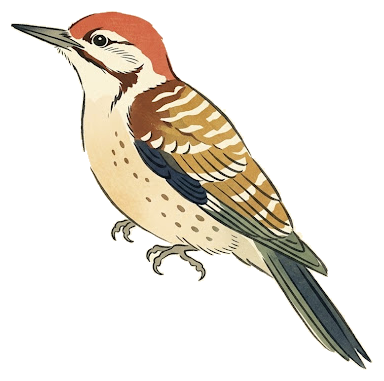
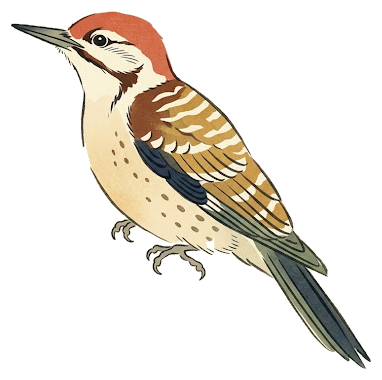
atlas: keep pale plumage that meets the ground with no ink line
The cream-ground cutout floods in from the edges, so a pale throat with
no outline gets eaten (the perched Ladder-backed Woodpecker lost its
chest). chroma_cut now also cuts at 0.7x its tolerance; if that keeps
more than 10% more bird, the first cut leaked and the tighter one is
used. On the six real renders only the woodpecker switches (+25%; the
rest gain under 5%). A synthetic test covers it.

The prompt also told the model eye, beak and feet were the only places
for dark line, which discouraged exactly that outline. It now asks for
one continuous outline round the whole bird, pale areas included.

diff --git a/avian/scripts/generate_one.py b/avian/scripts/generate_one.py
@@ -52,33 +52,11 @@ def write_state(**kw) -> None:
         pass
 
 
-def chroma_cut(src: Path, dst: Path, tol: float | None = None) -> None:
-    """Instant cutout for a cream-ground render: everything reachable from
-    the border through near-paper pixels is background; everything else is
-    bird. Enclosed pale patches (a white belly) are unreachable, so they
-    stay opaque - the same property the BiRefNet pipeline's fill step has
-    to reconstruct. Edges get a light feather instead of a learned matte.
-
-    The paper tolerance adapts per image: the model renders real grain
-    and a slight vignette, so the ground's distance-from-corner-paper
-    varies render to render (a fixed tolerance either strands ground or
-    eats pale plumage). The border strips are guaranteed paper - their
-    99th percentile, widened, clears grain and vignette while staying
-    far below the inked outline. Pass `tol` to override it for a render
-    whose pale plumage meets the ground with no ink line (it leaks in)."""
-    im = Image.open(src).convert("RGB")
-    arr = np.asarray(im)
-    h, w, _ = arr.shape
-    corners = np.concatenate([arr[:15, :15].reshape(-1, 3), arr[:15, -15:].reshape(-1, 3),
-                              arr[-15:, :15].reshape(-1, 3), arr[-15:, -15:].reshape(-1, 3)])
-    paper = np.median(corners, axis=0)
-    dist = np.sqrt(((arr.astype(np.int32) - paper) ** 2).sum(2))
-    border = np.concatenate([dist[:40, :].ravel(), dist[-40:, :].ravel(),
-                             dist[:, :40].ravel(), dist[:, -40:].ravel()])
-    if tol is None:
-        tol = float(min(40.0, max(15.0, 2.5 * np.percentile(border, 99))))
+def _solid_mask(dist: np.ndarray, tol: float) -> np.ndarray:
+    """Bird pixels for one paper tolerance: everything the border flood
+    cannot reach through near-paper pixels, with grain specks opened away."""
+    h, w = dist.shape
     passable = dist < tol
-
     # Flood the passable region from the border (ImageDraw.floodfill runs
     # at C speed; seeds cover each edge in case a wing splits the margin).
     # The .copy() is load-bearing: floodfill's writes are lost on a
@@ -93,13 +71,48 @@ def chroma_cut(src: Path, dst: Path, tol: float | None = None) -> None:
     if exterior.mean() < 0.5:
         raise RuntimeError(f"cutout flood failed (tol {tol:.0f}, "
                            f"exterior {100 * exterior.mean():.0f}%) - raw kept for the upgrade pass")
-
-    solid = ~exterior
     # Opening (erode then dilate) drops stray grain specks the flood
     # couldn't reach without nibbling the bird.
-    sm = Image.fromarray(solid.astype(np.uint8) * 255)
+    sm = Image.fromarray((~exterior).astype(np.uint8) * 255)
     sm = sm.filter(ImageFilter.MinFilter(3)).filter(ImageFilter.MaxFilter(3))
-    solid = np.asarray(sm) > 127
+    return np.asarray(sm) > 127
+
+
+def chroma_cut(src: Path, dst: Path, tol: float | None = None) -> None:
+    """Instant cutout for a cream-ground render: everything reachable from
+    the border through near-paper pixels is background; everything else is
+    bird. Enclosed pale patches (a white belly) are unreachable, so they
+    stay opaque - the same property the BiRefNet pipeline's fill step has
+    to reconstruct. Edges get a light feather instead of a learned matte.
+
+    The paper tolerance adapts per image: the model renders real grain
+    and a slight vignette, so the ground's distance-from-corner-paper
+    varies render to render (a fixed tolerance either strands ground or
+    eats pale plumage). The border strips are guaranteed paper - their
+    99th percentile, widened, clears grain and vignette while staying
+    far below the inked outline. If that cut leaks into pale plumage, a
+    tighter one is used instead (see below); `tol` forces a value."""
+    im = Image.open(src).convert("RGB")
+    arr = np.asarray(im)
+    h, w, _ = arr.shape
+    corners = np.concatenate([arr[:15, :15].reshape(-1, 3), arr[:15, -15:].reshape(-1, 3),
+                              arr[-15:, :15].reshape(-1, 3), arr[-15:, -15:].reshape(-1, 3)])
+    paper = np.median(corners, axis=0)
+    dist = np.sqrt(((arr.astype(np.int32) - paper) ** 2).sum(2))
+    border = np.concatenate([dist[:40, :].ravel(), dist[-40:, :].ravel(),
+                             dist[:, :40].ravel(), dist[:, -40:].ravel()])
+    if tol is None:
+        auto = float(min(40.0, max(15.0, 2.5 * np.percentile(border, 99))))
+        solid = _solid_mask(dist, auto)
+        # Leak check: where pale plumage meets the ground with no ink line,
+        # the flood runs into the bird. A tighter cut then keeps much more
+        # bird (+25% on a leaky woodpecker; good renders gain under 5%).
+        tight = _solid_mask(dist, max(12.0, 0.7 * auto))
+        if tight.sum() > 1.10 * solid.sum():
+            print(f"[cut] pale edge leaked at tol {auto:.0f}; using {max(12.0, 0.7 * auto):.0f}")
+            solid = tight
+    else:
+        solid = _solid_mask(dist, tol)
     binary = solid.astype(np.uint8) * 255
     # Feather: soften the silhouette edge, keep the interior fully opaque,
     # never bleed outside the silhouette.

diff --git a/tests/test_chroma_cut.py b/tests/test_chroma_cut.py
@@ -1,0 +1,49 @@
+import pathlib
+import sys
+import tempfile
+import unittest
+
+import numpy as np
+from PIL import Image, ImageDraw
+
+ROOT = pathlib.Path(__file__).resolve().parents[1]
+sys.path.insert(0, str(ROOT / "avian" / "scripts"))
+import generate_one  # noqa: E402
+
+PAPER = (249, 238, 208)
+PALE = (247, 229, 192)   # a cream throat, ~19 from the paper (the woodpecker's)
+
+
+def render(outline_gap):
+    """A cream-ground 'bird': an inked oval with a pale patch on its left
+    edge. With outline_gap the patch meets the ground with no ink line."""
+    rng = np.random.default_rng(1)
+    img = Image.new("RGB", (400, 400), PAPER)
+    d = ImageDraw.Draw(img)
+    d.ellipse((100, 100, 300, 300), fill=(120, 80, 50), outline=(20, 20, 20), width=4)
+    d.ellipse((96, 150, 190, 250), fill=PALE)  # pale patch over the left edge
+    if not outline_gap:
+        d.arc((96, 150, 190, 250), 90, 270, fill=(20, 20, 20), width=4)
+    arr = np.asarray(img).astype(np.int16) + rng.integers(-6, 7, (400, 400, 3))  # paper grain
+    return Image.fromarray(np.clip(arr, 0, 255).astype(np.uint8))
+
+
+def bird_area(img):
+    with tempfile.TemporaryDirectory() as tmp:
+        src, dst = pathlib.Path(tmp, "raw.png"), pathlib.Path(tmp, "cut.png")
+        img.save(src)
+        generate_one.chroma_cut(src, dst)
+        return int((np.asarray(Image.open(dst))[:, :, 3] > 127).sum())
+
+
+class ChromaCutTests(unittest.TestCase):
+    def test_pale_patch_without_outline_is_kept(self):
+        """The perched Ladder-backed Woodpecker lost its cream throat and
+        chest: the adaptive tolerance let the flood run straight in."""
+        outlined = bird_area(render(outline_gap=False))
+        open_edge = bird_area(render(outline_gap=True))
+        self.assertGreater(open_edge, 0.95 * outlined)
+
+
+if __name__ == "__main__":
+    unittest.main()

diff --git a/avian/scripts/prompt.template.md b/avian/scripts/prompt.template.md
@@ -20,7 +20,7 @@ Three text placeholders get replaced per request:
 
 Generate a {pose} {com_name} ({sci_name}) in the style of an Edo-period Japanese kachō-e woodblock print, matching the painting technique of IMAGE 3 closely. Look at IMAGE 3: the bird is rendered with VERY FEW MARKS. The body is essentially 2-4 flat color zones with sharp boundaries. There is almost no internal texture on the body - no feather-by-feather rendering, no pen-line stippling, no gradient shading. The bird in IMAGE 3 looks like it was painted with maybe 30 brush strokes total. YOUR output should look the same: a few flat color zones, a few confident outline strokes, an accent stroke or two for major wing or tail markings, and that's it.
 
-Confident sumi-e ink linework with soft watercolor washes. Earthy, restrained palette: burnt umber, ochre, indigo, vermillion, muted greens. The body should look like flat painted paper - not a textured surface, not shaded volume. If the species has subtle plumage variation (streaking, mottling, fine barring), ABSTRACT it into 2-3 broad zones rather than rendering it literally. Eye, beak, and feet drawn with crisp ink - these are the only places where confident dark line is appropriate.
+Confident sumi-e ink linework with soft watercolor washes. Earthy, restrained palette: burnt umber, ochre, indigo, vermillion, muted greens. The body should look like flat painted paper - not a textured surface, not shaded volume. If the species has subtle plumage variation (streaking, mottling, fine barring), ABSTRACT it into 2-3 broad zones rather than rendering it literally. Eye, beak, and feet drawn with crisp ink - these, and the outline of the whole bird, are the only places where confident dark line is appropriate.
 
 The bird sits on a CONSISTENT WARM CREAM tonal background - like aged Japanese mulberry paper, a soft warm buff cream color. The cream ground fills the entire frame as the background and is identical across every print for visual consistency. This is the only background element: NO branch, NO twig, NO perch, NO leaves, NO foliage, NO substrate, NO scenery, NO sky, NO moon, NO water - only the bird floating against the cream paper ground. The perch is purely implied by toe posture - it is NEVER rendered. NO border or frame, NO text or signature.
 
@@ -56,5 +56,7 @@ Treat IMAGE 1 for anatomy and color information ONLY. Treat IMAGE 3 for style ON
 - IN FLIGHT (pose 2): both wings fully extended in a natural flapping position. Legs and feet either (a) tucked tight against the belly with toes folded out of sight, or (b) extended straight back along the line of the tail. Do NOT dangle the feet below the body with toes splayed.
 
 ### Output
+
+Enclose the entire bird in one continuous dark ink outline, including pale areas such as the throat, breast and belly, with no gaps where the bird meets the cream ground.
 
 Render at high resolution. Keep the plain cream ground right out to every edge (it is removed afterwards), with no transparency. No shadow, no paper texture, no caption.
